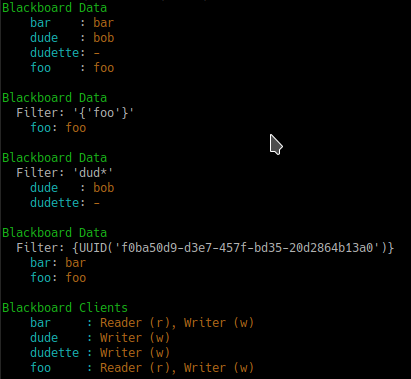
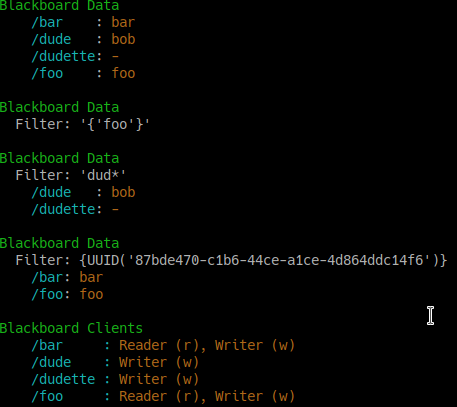
updated docs

diff --git a/py_trees/blackboard.py b/py_trees/blackboard.py
@@ -421,6 +421,36 @@ class Client(object):
 
        Variable Read/Write Registration
 
+    Keys and clients can make use of namespaces, designed by the '/' char. Most
+    methods permit a flexible expression of either relative or absolute names.
+
+    .. code-block:: python
+
+        blackboard = py_trees.blackboard.Client(name="Global")
+        parameters = py_trees.blackboard.Client(name="Parameters", namespace="parameters")
+
+        blackboard.register_key(key="foo", access=py_trees.common.Access.WRITE)
+        blackboard.register_key(key="/bar", access=py_trees.common.Access.WRITE)
+        blackboard.register_key(key="/parameters/default_speed", access=py_trees.common.Access.WRITE)
+        parameters.register_key(key="aggressive_speed", access=py_trees.common.Access.WRITE)
+
+        blackboard.foo = "foo"
+        blackboard.bar = "bar"
+        blackboard.parameters.default_speed = 20.0
+        parameters.aggressive_speed = 60.0
+
+        miss_daisy = blackboard.parameters.default_speed
+        van_diesel = parameters.aggressive_speed
+
+        print(blackboard)
+        print(parameters)
+
+    .. figure:: images/blackboard_namespaces.png
+       :align: center
+
+       Namespaces and Namespaced Clients
+
+
     Disconnected instances will discover the centralised
     key-value store.
 

diff --git a/doc/examples/blackboard_namespaces.py b/doc/examples/blackboard_namespaces.py
@@ -1,0 +1,22 @@
+#!/usr/bin/env python3
+
+import py_trees
+
+blackboard = py_trees.blackboard.Client(name="Global")
+parameters = py_trees.blackboard.Client(name="Parameters", namespace="parameters")
+
+blackboard.register_key(key="foo", access=py_trees.common.Access.WRITE)
+blackboard.register_key(key="/bar", access=py_trees.common.Access.WRITE)
+blackboard.register_key(key="/parameters/default_speed", access=py_trees.common.Access.WRITE)
+parameters.register_key(key="aggressive_speed", access=py_trees.common.Access.WRITE)
+
+blackboard.foo = "foo"
+blackboard.bar = "bar"
+blackboard.parameters.default_speed = 20.0
+parameters.aggressive_speed = 60.0
+
+miss_daisy = blackboard.parameters.default_speed
+van_diesel = parameters.aggressive_speed
+
+print(blackboard)
+print(parameters)

diff --git a/doc/examples/blackboard_display.py b/doc/examples/blackboard_display.py
@@ -8,7 +8,7 @@ for key in {"foo", "bar", "dude", "dudette"}:
 
 reader = py_trees.blackboard.Client(name="Reader")
 for key in {"foo", "bar"}:
-    reader.register_key(key="key", access=py_trees.common.Access.READ)
+    reader.register_key(key=key, access=py_trees.common.Access.READ)
 
 writer.foo = "foo"
 writer.bar = "bar"
